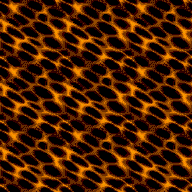
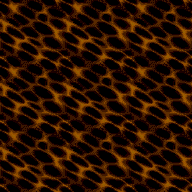
lava: only 4 maps have a lava floor, and 21 is not one of them
"still zero light cast around the room." The lights are fine. The test map had
no lava in it.

Parsed straight out of the UDMF: texturefloor = "HLAVA*" / "D64LAVA*" appears in
MAP14 (1 sector), MAP19 (2), MAP20 (2) and MAP33 (3). Nowhere else in the game.
ab-lava.cmd defaulted to MAP21 because tools/_gallery's per-map table lists
HLAVA1 in 15/20/21/34 -- but that table counts where a texture is REFERENCED,
not where it is a floor, and the two sets here are disjoint. A feature with no
input looks exactly like a broken feature, which is what the last two rounds
were spent on. Default is MAP20 now and the header says not to trust the gallery
for this.

Also bakes the on-screen emission trim into the lava's own _e. Judged in game,
the lava wanted rt_emis_maxscrcolor 1, but the launcher pins 3 and every other
emissive in the map is balanced against that -- so the factor of 3 goes into _e
here instead, and emissiveMult absorbs it (1.5 -> 4.5) so the INDIRECT term is
unchanged. Indirect is _e * emissiveMult and never sees emissionMaxScreenColor,
so the two cancel exactly.

Claude-Session: https://claude.ai/code/session_01HboELNrUW4vVTdm1fksvYb

diff --git a/tools/gen_lava_material.py b/tools/gen_lava_material.py
@@ -101,6 +101,18 @@ RELIEF_STRENGTH = 0.035
 SELF_EMIT = 1.5  # the cracks are hot rock, not lit rock
 SELF_EMIT_GAMMA = 1.3
 
+# On-screen emission trim, and the reason it lives here rather than in a cvar.
+#
+# CmPrepareFinal.comp does  hdr += screenEmis * emissionMaxScreenColor,  and the
+# launcher pins rt_emis_maxscrcolor 3. Judged in game, the lava wanted an
+# effective 1 -- but that cvar is GLOBAL and every other emissive in the map is
+# already balanced against the 3. So the factor is baked into the lava's own _e
+# instead: divide here, and pay it back through emissiveMult so the INDIRECT
+# contribution is unchanged (indirect is _e * emissiveMult and never sees
+# emissionMaxScreenColor at all).
+SCREEN_EMIS_TRIM = 1.0 / 3.0
+SHIPPED_EMISSIVE_MULT = 1.5
+
 
 def build_from(albedo, m):
     """-> (unnormalised _e as RGB, height, normal_rgb, orm_rgb)"""
@@ -174,12 +186,12 @@ def apply(dry: bool) -> int:
         m = crack_mask(albedo)
         shared = build_from(albedo, m)
         built = {n: shared for n in group}
-        peak = float(shared[0].max())
+        peak = float(shared[0].max()) / SCREEN_EMIS_TRIM
         # emissiveMult is NOT the brightness knob for what you see: primary and
         # reflection use the raw _e sample and ignore it entirely (HitInfo.inl).
-        # It scales the INDIRECT contribution only, so it stays at what the lava
-        # shipped with; the visible level is set by the peak below.
-        mult = 1.5
+        # It scales the INDIRECT contribution only -- so it absorbs the screen
+        # trim, leaving indirect exactly where it was while the screen dims.
+        mult = round(SHIPPED_EMISSIVE_MULT / SCREEN_EMIS_TRIM, 3)
 
         print(f"  {'/'.join(group):28} peak _e {peak:5.3f}  "
               f"(emissiveMult {mult}, indirect only; {len(group)} frame(s) share one set)")
